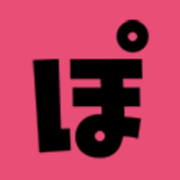
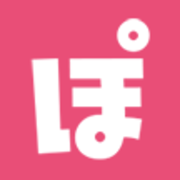
fix: 画像表示・ファビコン更新
- タイトル画像を白文字表示（filter invert追加）
- ローディング画像サイズ拡大（32x32→40x40）
- ファビコンを新デザインに更新（4.webp使用）
- 全形式のファビコンファイル再生成

🤖 Generated with [Claude Code](https://claude.ai/code)

Changed region(s): [[0.1667, 0.0833, 0.8333, 0.8889]]

diff --git a/src/app/components/Header.tsx b/src/app/components/Header.tsx
@@ -16,7 +16,7 @@ const Header = () => {
               alt="おおさかけんぽう" 
               width={240} 
               height={48}
-              className="mx-auto"
+              className="mx-auto filter invert"
             />
             <p className="text-xs mt-1">法律をおおさか弁で知ろう。知らんけど</p>
           </div>

diff --git a/src/app/components/Loading.tsx b/src/app/components/Loading.tsx
@@ -33,8 +33,8 @@ export const Loading = () => {
           <Image 
             src="/po.webp" 
             alt="ぽう？" 
-            width={32} 
-            height={32}
+            width={40} 
+            height={40}
             className="filter invert"
           />
         </div>
